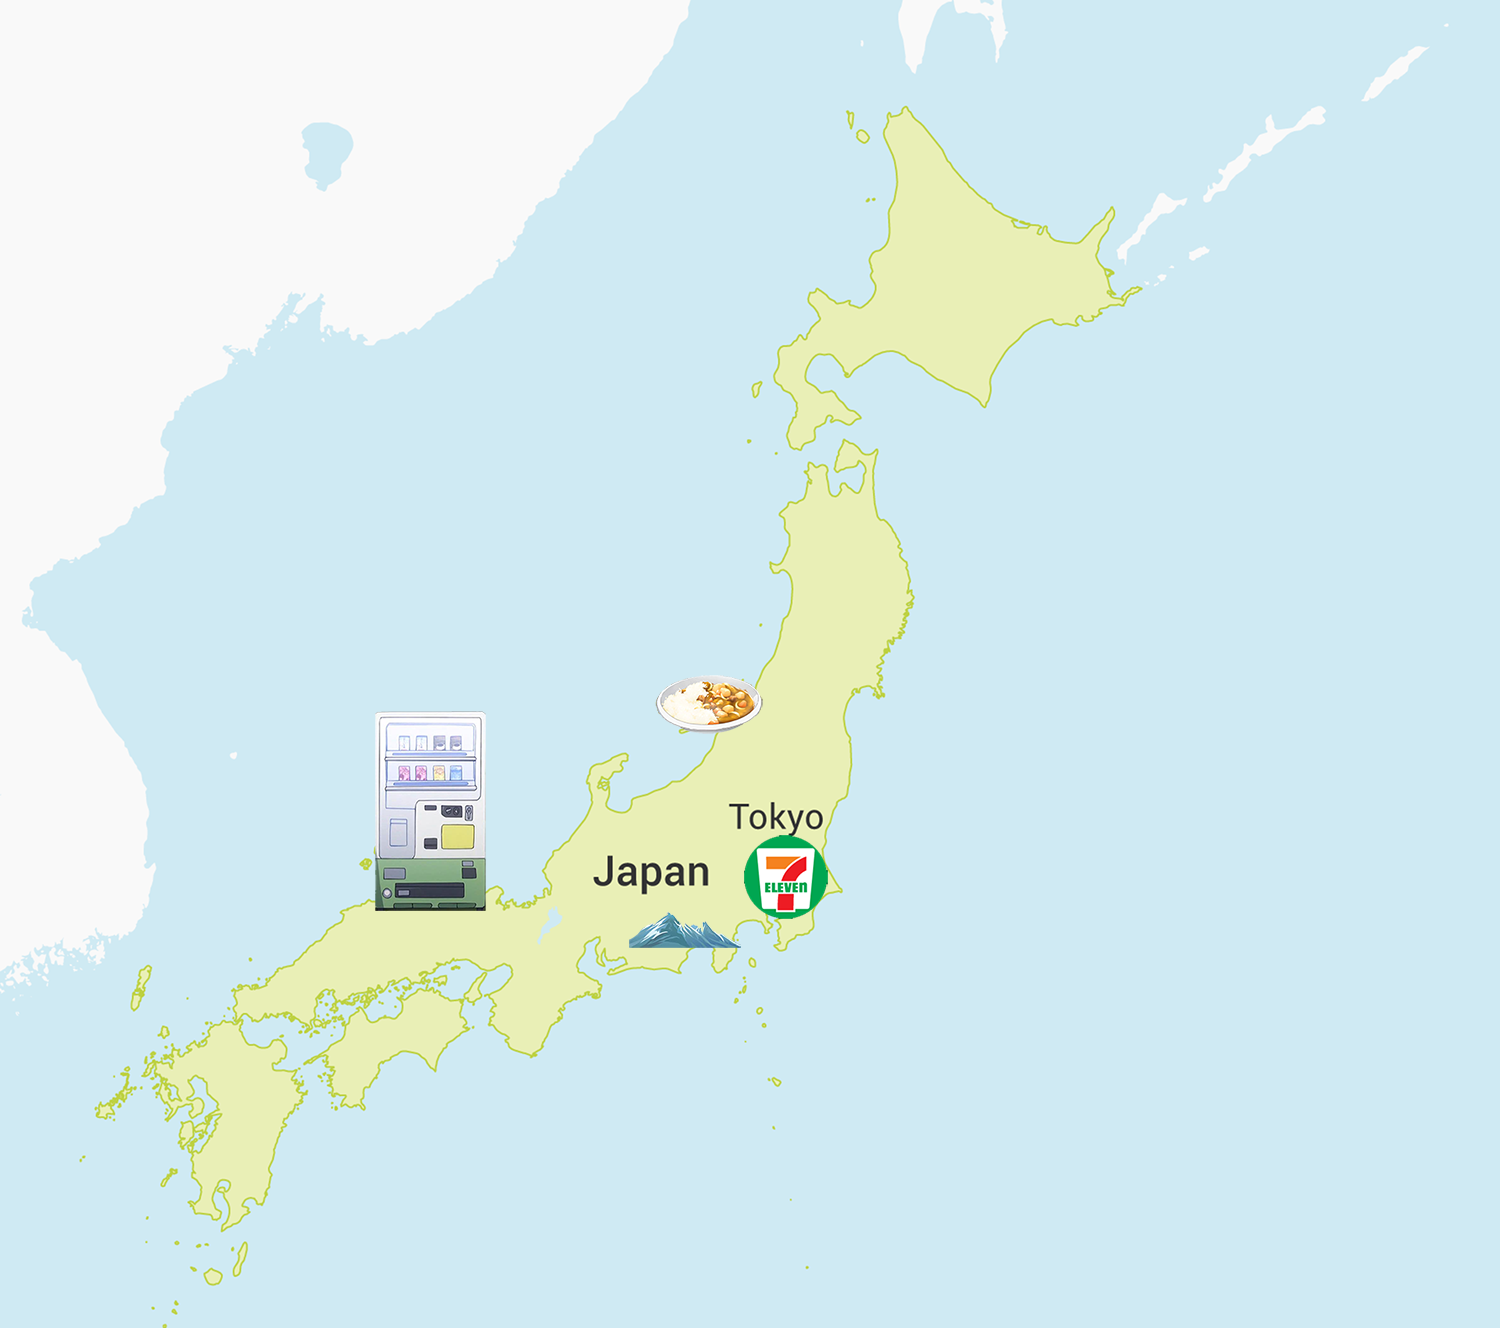
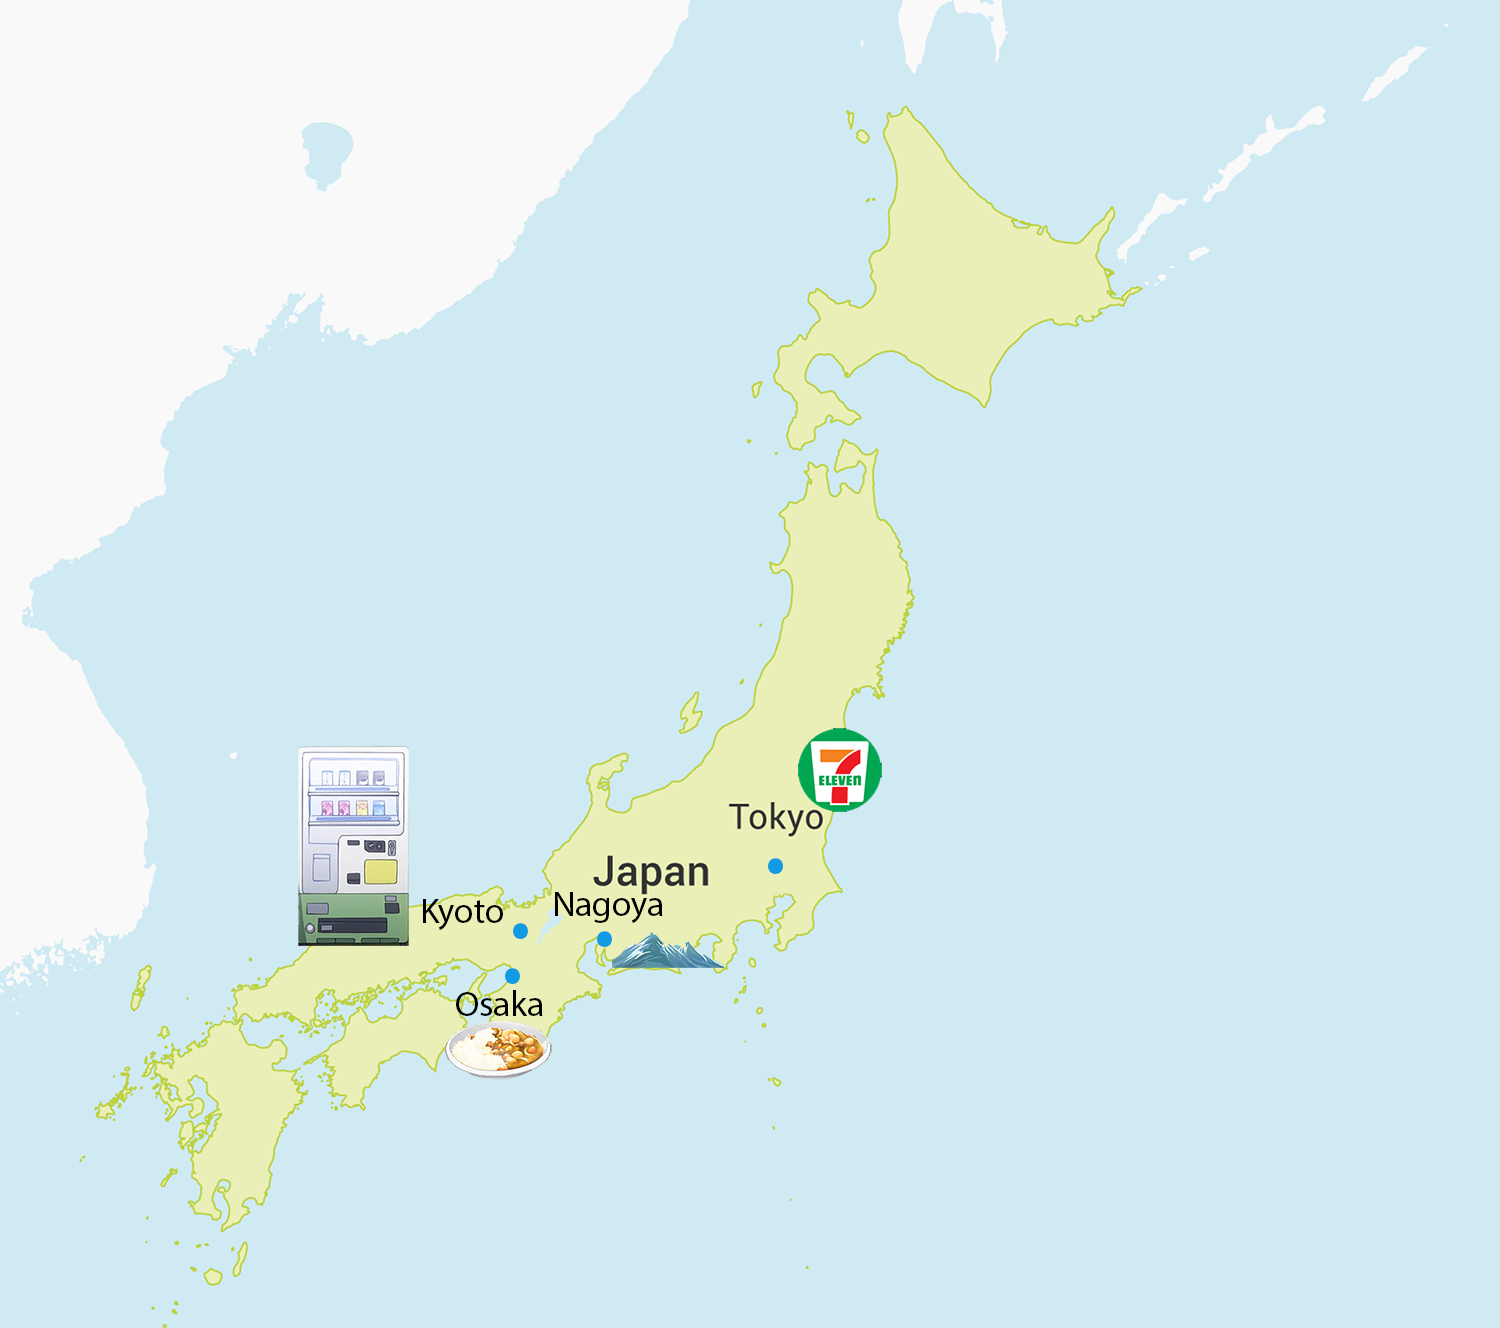
Added different buttons, updated Japan map

Changed region(s): [[0.184, 0.5248, 0.6133, 0.8336], [0.4293, 0.494, 0.5213, 0.5557]]

diff --git a/Button/Button/MainWindow.xaml b/Button/Button/MainWindow.xaml
@@ -34,18 +34,12 @@
             </DoubleAnimationUsingKeyFrames>
         </Storyboard>
     </Window.Resources>
-    <Window.Triggers>
-        <EventTrigger RoutedEvent="FrameworkElement.Loaded">
-            <BeginStoryboard Storyboard="{StaticResource Excited}"/>
-            <BeginStoryboard Storyboard="{StaticResource DriveInitialD}"/>
-        </EventTrigger>
-    </Window.Triggers>
 
     <Window.Background>
         <ImageBrush ImageSource="assets/Japan.png"></ImageBrush>
     </Window.Background>
     <Grid>
-        <Image x:Name="btnCarlos" HorizontalAlignment="Left" Width="70" Height="120" Source="assets/Carlos button.png" MouseMove="btnCarlos_MouseMove" RenderTransformOrigin="0.5,0.5" Margin="800,536,0,274" MouseDown="btnCarlos_MouseDown" MouseUp="btnCarlos_MouseUp">
+        <Image x:Name="btnCarlos" HorizontalAlignment="Left" Height="210" Width="110" Source="assets/Carlos button.png" MouseMove="btnCarlos_MouseMove" MouseDown="btnCarlos_MouseDown" MouseUp="btnCarlos_MouseUp"  RenderTransformOrigin="0.5,0.5" Margin="882,797,0,-77">
             <Image.RenderTransform>
                 <TransformGroup>
                     <ScaleTransform/>

diff --git a/Button/Button/MainWindow.xaml.cs b/Button/Button/MainWindow.xaml.cs
@@ -44,17 +44,43 @@ namespace Button
             Point mousePos = e.GetPosition(this);
 
             Debug.WriteLine("Please stop bothering me");
+
             btnCarlos.Margin = new Thickness(
-                mousePos.X - (btnCarlos.ActualWidth / 2),
-                mousePos.Y - (btnCarlos.ActualHeight / 2), 0, 0);
-
+                mousePos.X - (btnCarlos.Width / 2),
+                mousePos.Y - (btnCarlos.Height / 2), 0, 0);
         }
-
+        
         private void btnCarlos_MouseDown(object sender, MouseButtonEventArgs e)
         {
             pressed = true;
-            btnCarlos.Source = new BitmapImage(new Uri(@"/assets/drive.png", UriKind.Relative));
+            Point mousePos = e.GetPosition(this);
+
+            // check x, y coordinates to see if they match the x, y coordinates of the elements on the map
+            if (((mousePos.X >= 390) & (mousePos.X <= 390 + btnCarlos.Width)) & ((mousePos.Y >= 620) & (mousePos.Y <= 625 + btnCarlos.Height)))
+            {
+                // Check to see if Carlos is in mountainous area - Mount Haruna
+                btnCarlos.Source = new BitmapImage(new Uri(@"/assets/drive.png", UriKind.Relative));
+                Storyboard driveSB = this.FindResource("DriveInitialD") as Storyboard;
+                driveSB.Begin();
+                Debug.WriteLine("Vroom vroom");
+            } else if (((mousePos.X >= 270) & (mousePos.X <= 270 + btnCarlos.Width)) & ((mousePos.Y >= 660) & (mousePos.Y <= 660 + btnCarlos.Height)))
+            {
+                // curry
+                btnCarlos.Source = new BitmapImage(new Uri(@"/assets/Carlos eating button.png", UriKind.Relative));
+                Debug.WriteLine("Curry");
+            } else if (((mousePos.X >= 495) & (mousePos.X <= 495 + btnCarlos.Width)) & ((mousePos.Y >= 485) & (mousePos.Y <= 485 + btnCarlos.Height)))
+            {
+                // 7-Eleven
+                btnCarlos.Source = new BitmapImage(new Uri(@"/assets/Carlos heart eyes.png", UriKind.Relative));
+                Debug.WriteLine("7-11");
+            } else if (((mousePos.X >= 180) & (mousePos.X <= 180 + btnCarlos.Width)) & ((mousePos.Y >= 490) & (mousePos.Y <= 490 + btnCarlos.Height)))
+            {
+                // Vending machine
+                btnCarlos.Source = new BitmapImage(new Uri(@"/assets/Carlos holding coffee.png", UriKind.Relative));
+                Debug.WriteLine("Vending machine");
+            }
         }
+
 
         private void btnCarlos_MouseUp(object sender, MouseButtonEventArgs e)
         {
